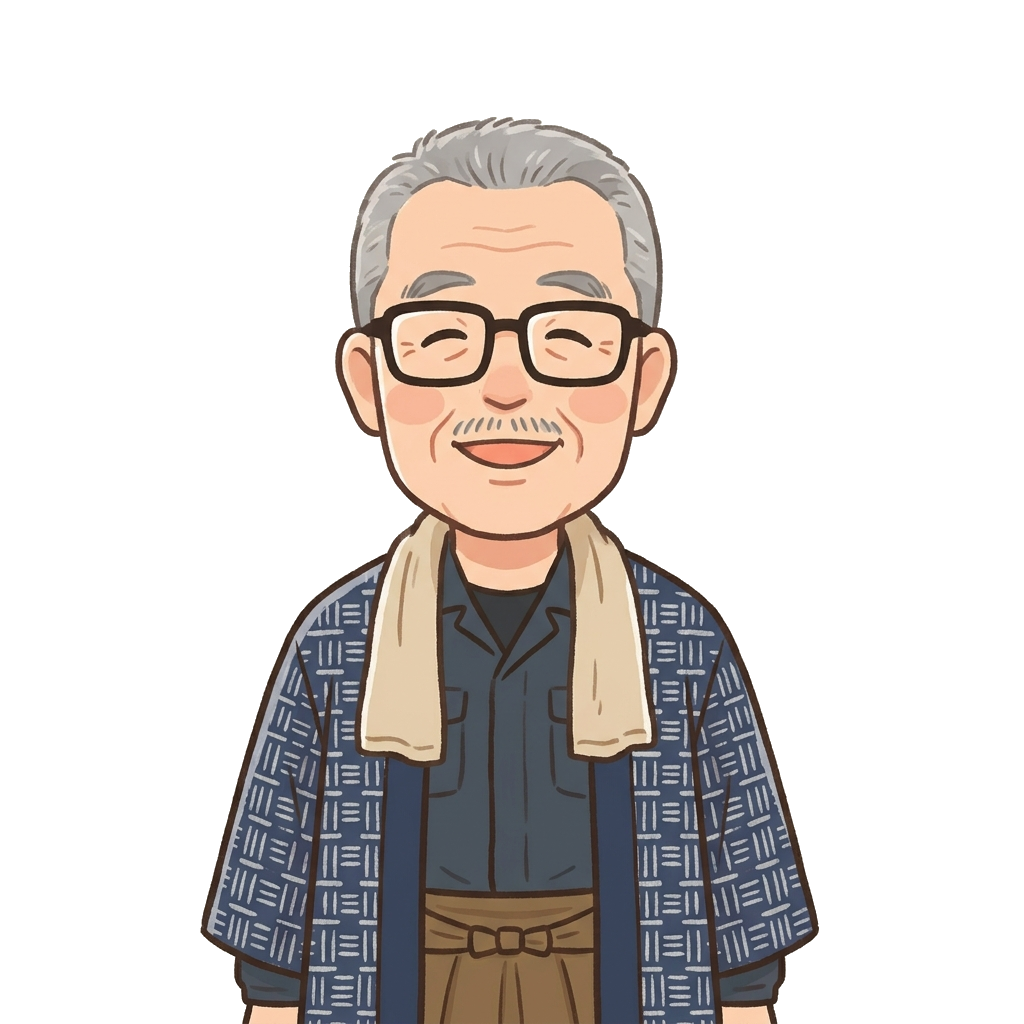
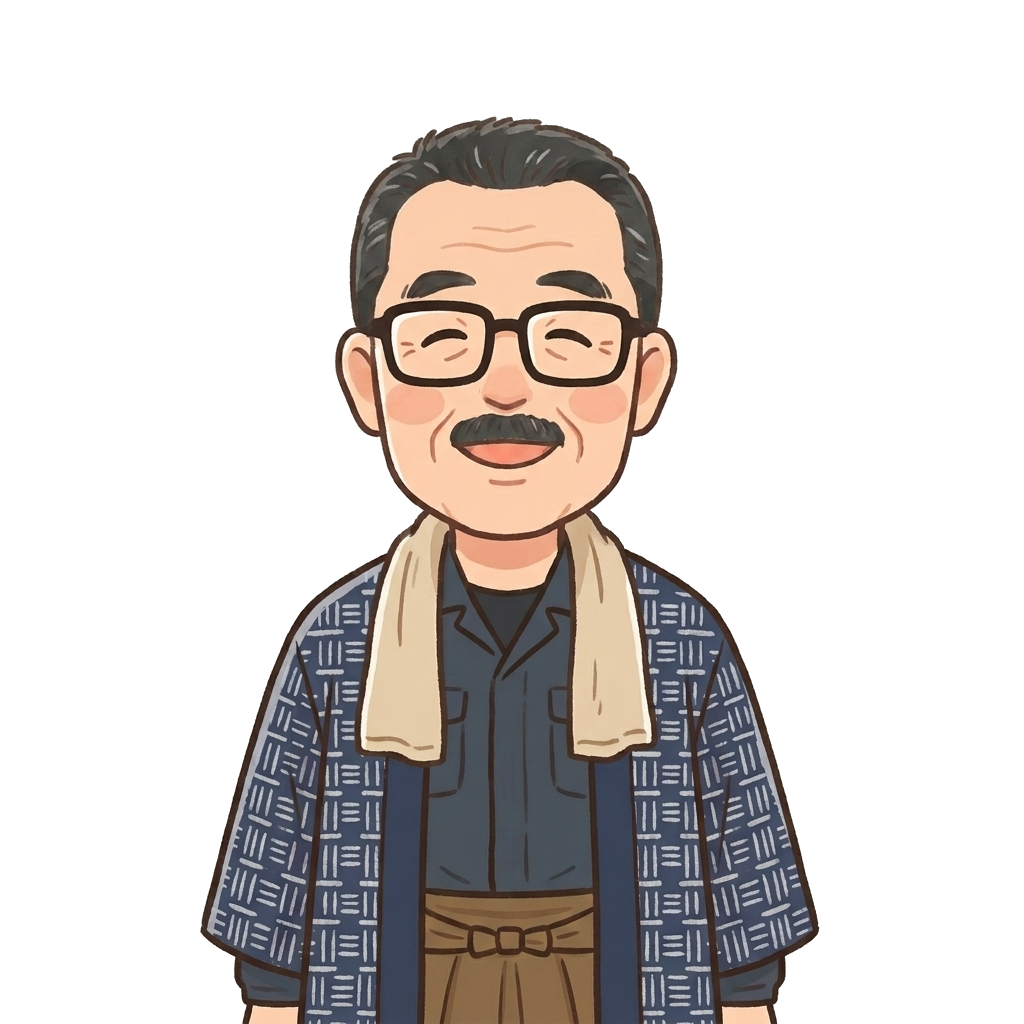
愛の日記ボタン: 他ボタンと同サイズに統一 + マスコットの髪/髭を黒め調整
- home.html: bdiaryカードを全幅横並び→通常グリッドカード(他と同サイズ)に戻す。アイコンは透過アバター(44px)
- assets: bsan_avatar/_t/_full の髪と髭を黒め(白髪少なめ)にGemini編集で調整

Changed region(s): [[0.3438, 0.0938, 0.6562, 0.3438], [0.4375, 0.4062, 0.5625, 0.4375]]

diff --git a/public/home.html b/public/home.html
@@ -450,11 +450,8 @@
   .card.takara     { --c1: #f87171; --c2: #1e40af; }
   .card.safety     { --c1: #fca5a5; --c2: #dc2626; }  /* 安全衛生委員会 月報 (🚨Report赤系) */
   .card.matomeru   { --c1: #5eead4; --c2: #0f766e; }  /* まとめる君: ティール (Communication青系・🦉ブランド色) */
-  /* 元祖Ｂさんの愛の日記: 横並び・大アバター・全幅(sec-commの色上書きに勝つ詳細度) */
-  .grid.sec-comm .card.bdiary { --c1: #fda4af; --c2: #e11d48; grid-column: 1 / -1; flex-direction: row; align-items: center; justify-content: flex-start; text-align: left; gap: 14px; padding: 10px 16px; }
-  .card.bdiary .bd-ava { width: 74px; height: 74px; object-fit: contain; flex-shrink: 0; filter: drop-shadow(0 3px 5px rgba(0,0,0,0.18)); }
-  .card.bdiary .bd-txt .label { font-size: 16px; }
-  .card.bdiary .bd-sub { font-size: 12px; color: #9f1239; margin-top: 3px; font-weight: 700; }
+  /* 元祖Ｂさんの愛の日記: 他ボタンと同サイズの通常カード、アイコンを透過アバターに */
+  .card.bdiary .bd-ava { width: 44px; height: 44px; object-fit: contain; object-position: center top; margin-bottom: 4px; filter: drop-shadow(0 2px 3px rgba(0,0,0,0.15)); }
 
   /* 推進メンバー専用 */
   #promoter-section .grid { gap: 12px; }
@@ -719,10 +716,7 @@
     <a class="card bdiary" href="/bdiary.html">
       <span class="badge" id="b-bdiary" style="display:none;">0</span>
       <img class="bd-ava" src="/assets/bsan_avatar_t.png" alt="Bさん">
-      <div class="bd-txt">
-        <div class="label">元祖Ｂさんの愛の日記</div>
-        <div class="bd-sub">みんなで応援メッセージを送ろう 💌</div>
-      </div>
+      <div class="label">元祖Ｂさんの愛の日記</div>
     </a>
     <a class="card board" href="/board.html">
       <span class="badge" id="b-board" style="display:none;">0</span>
